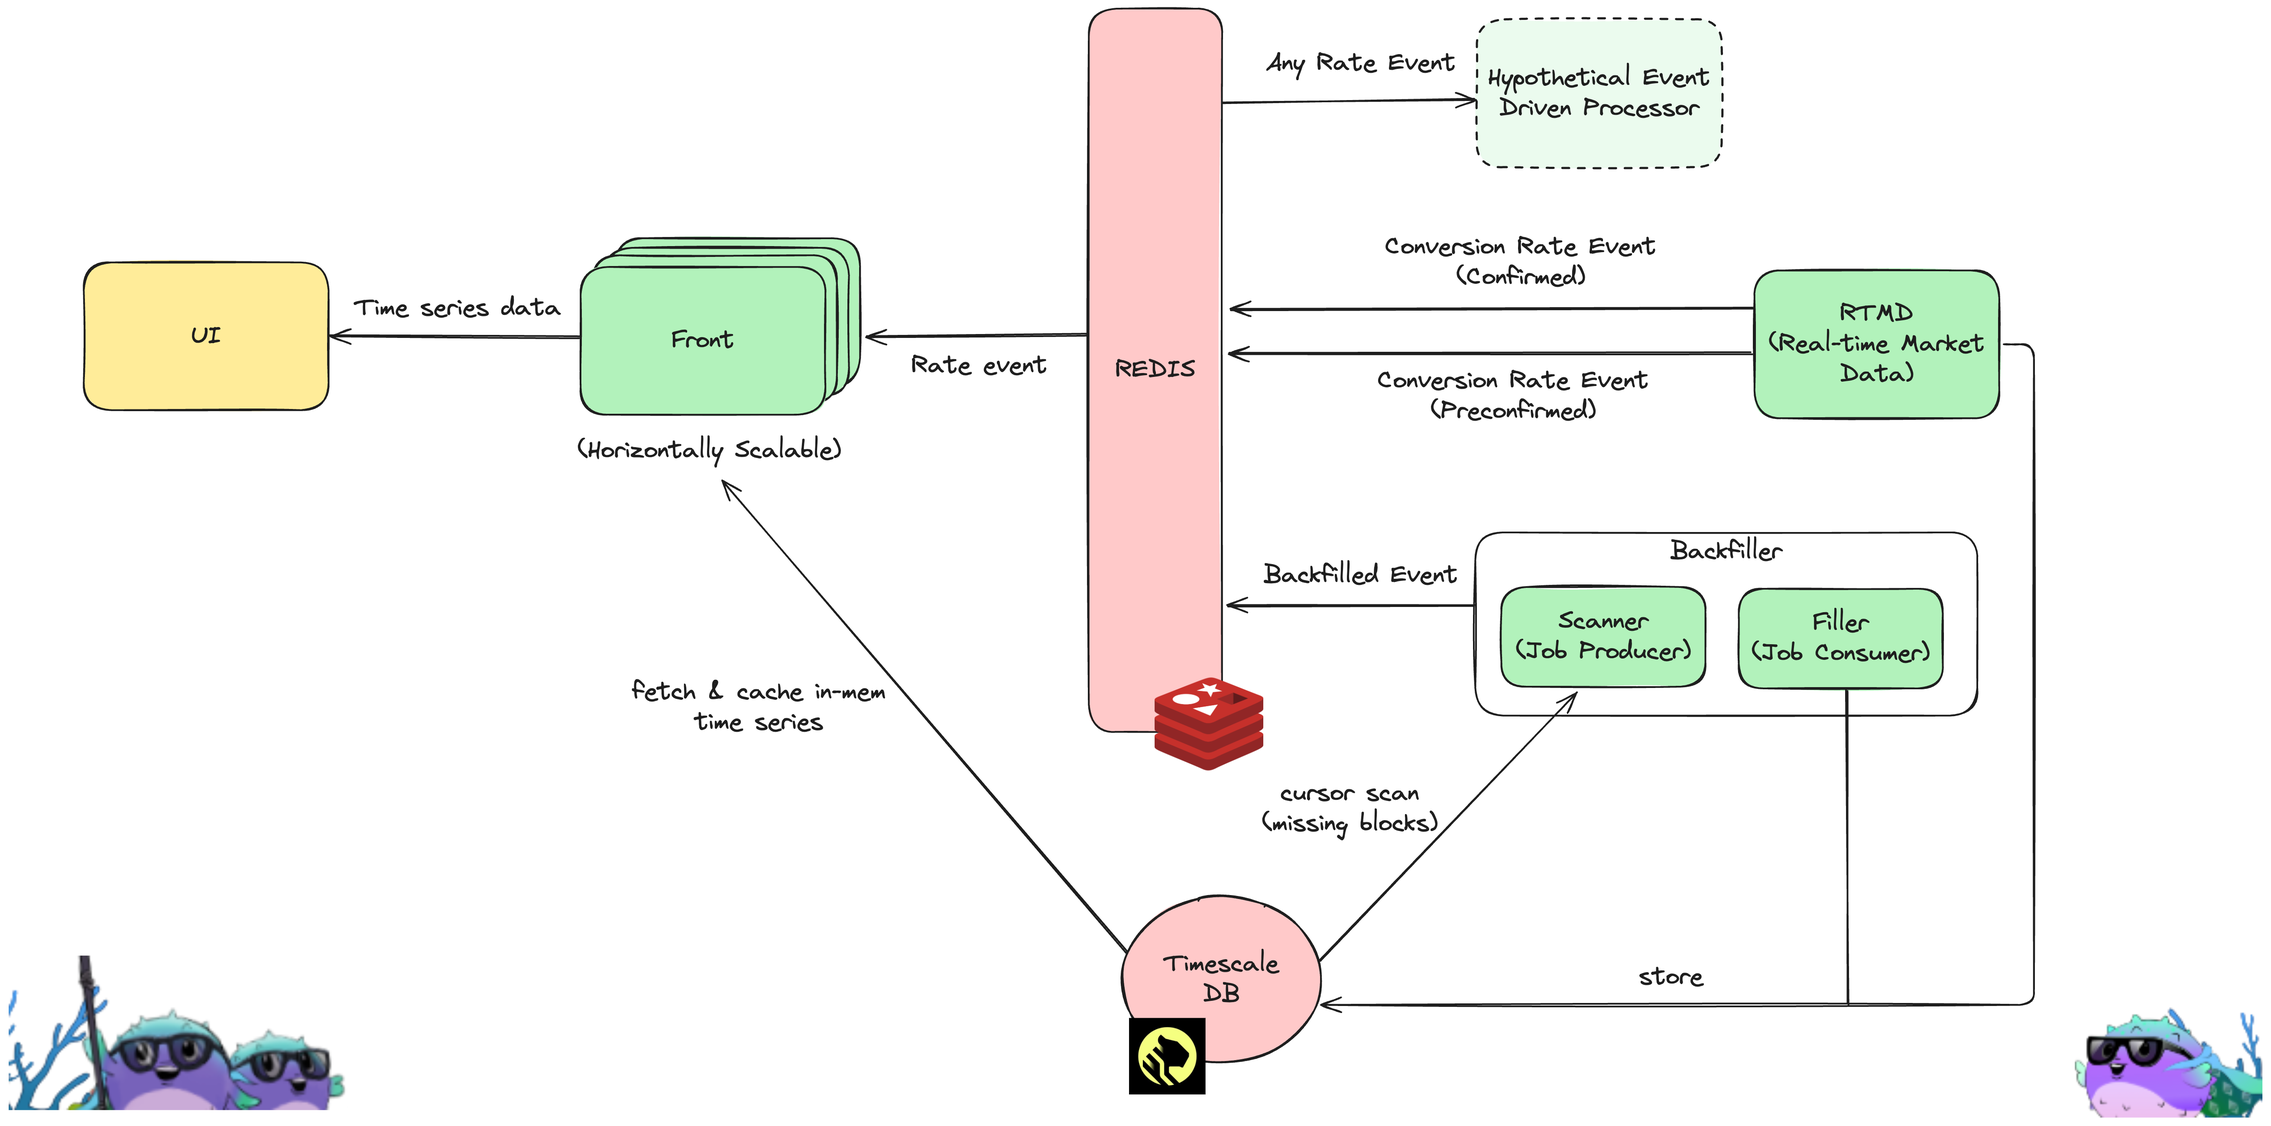
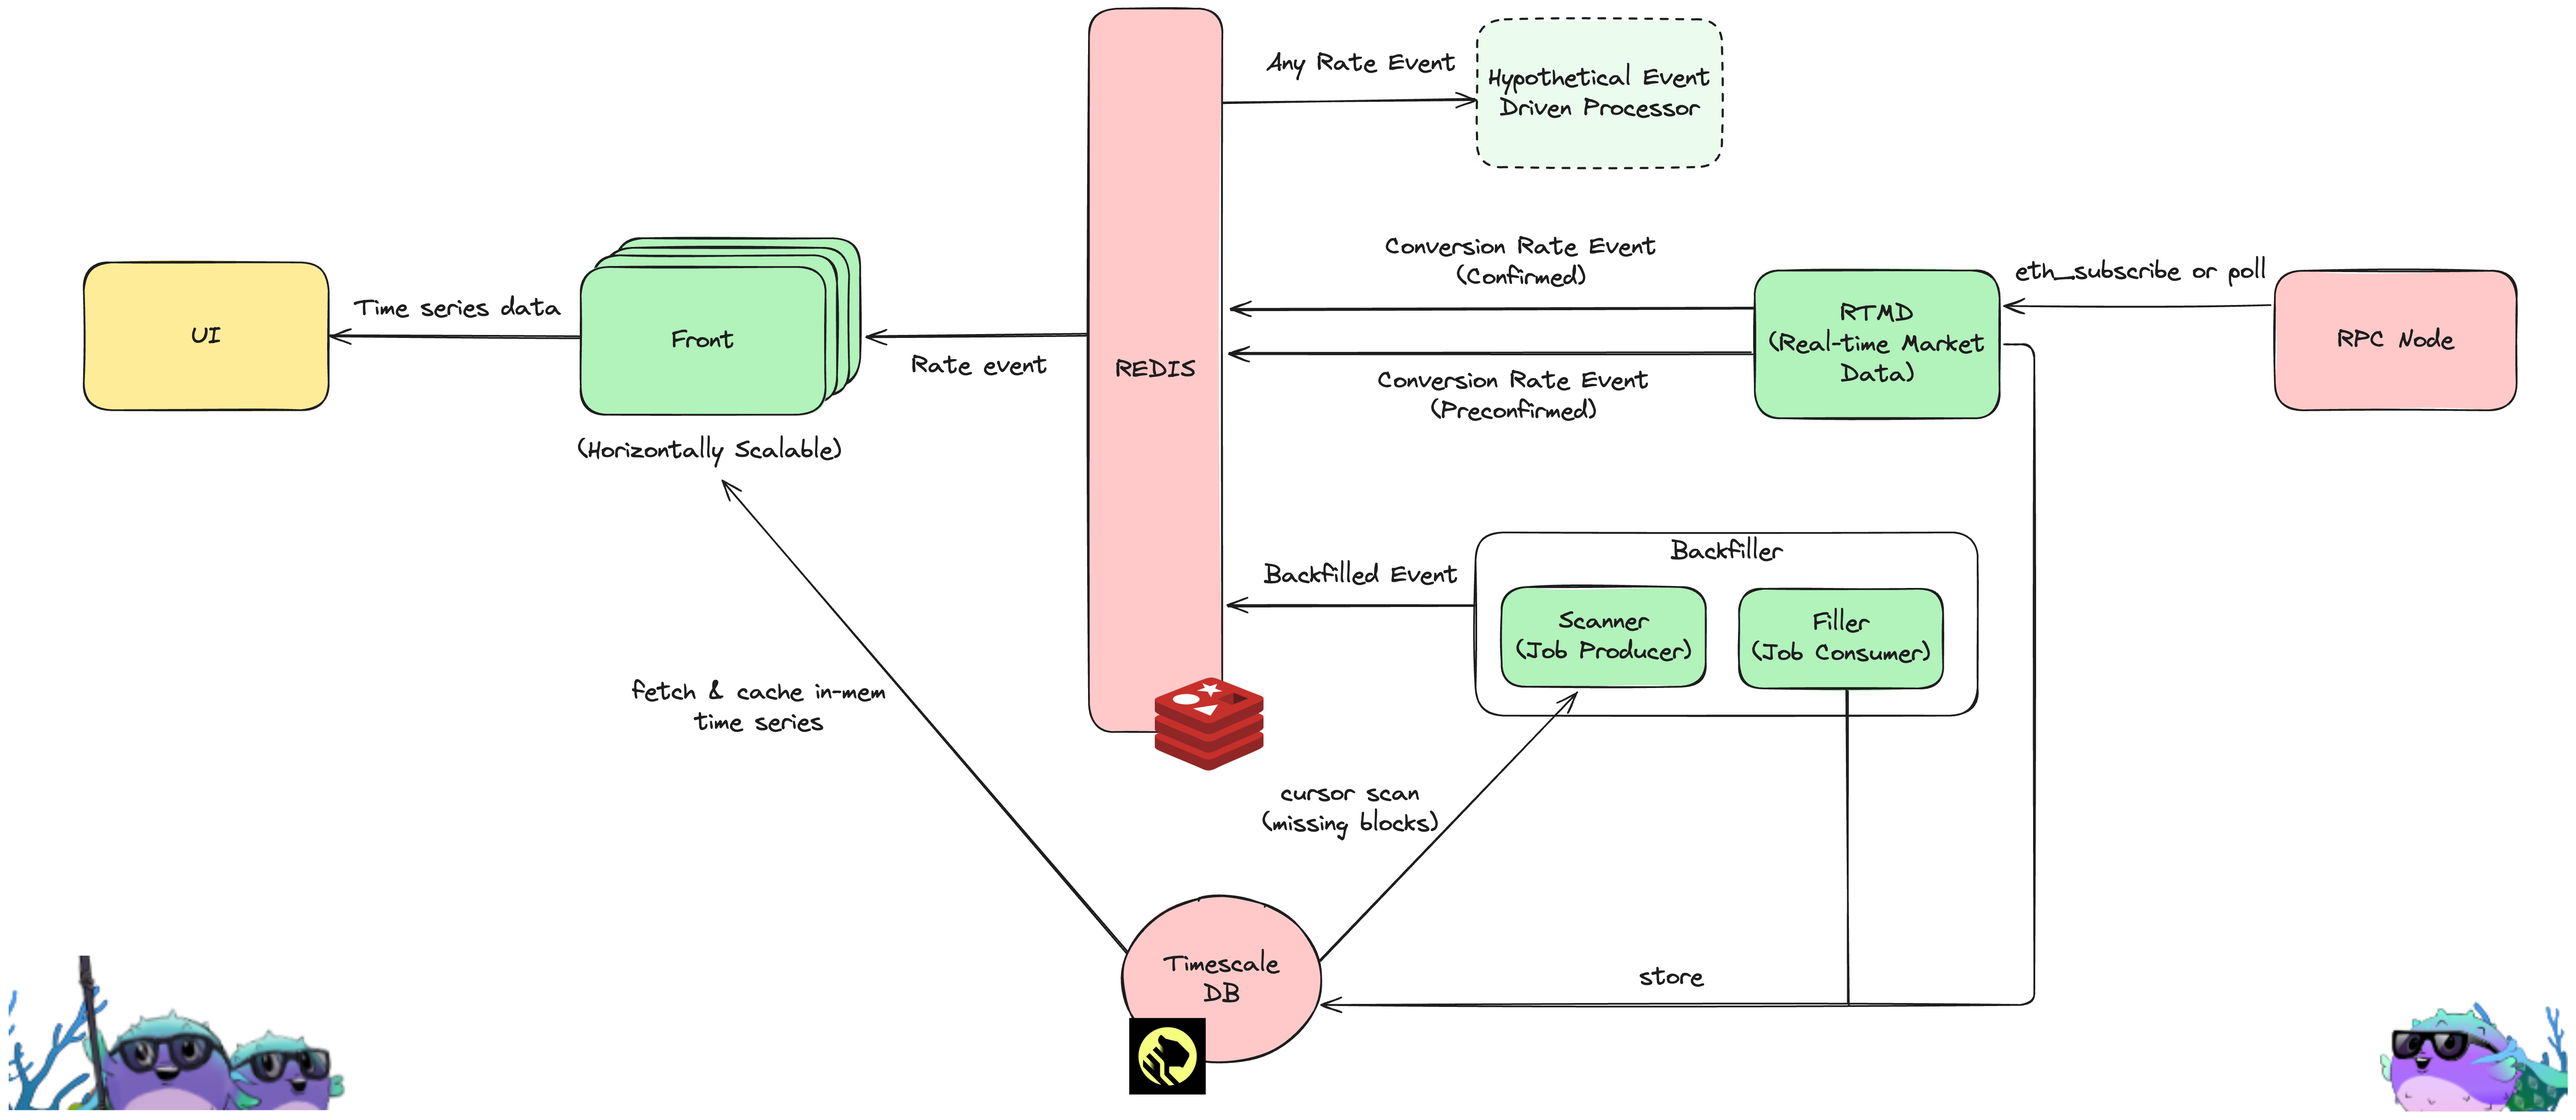
readme done

diff --git a/frontend/src/components/PufferChart.tsx b/frontend/src/components/PufferChart.tsx
@@ -7,12 +7,9 @@ import {
   YAxis,
   CartesianGrid,
   Tooltip,
-  Legend,
-  Brush,
-  AreaChart,
-  Area,
   ResponsiveContainer,
 } from "recharts";
+import Image from "next/image";
 
 export default class PufferChart extends PureComponent {
   state = {
@@ -57,7 +54,7 @@ export default class PufferChart extends PureComponent {
     }
   };
 
-  getDataRange = (key: any) => {
+  getDataRange = (key: string) => {
     const values = this.state.data.map((item) => item[key]);
     const min = Math.min(...values);
     const max = Math.max(...values);
@@ -161,7 +158,7 @@ export default class PufferChart extends PureComponent {
       <div style={{ width: "100%" }} className="bg-[#fefffe] p-6 rounded-xl">
         <div style={this.chartStyle}>
           <h3 style={this.chartTitleStyle}>PufETH:ETH Conversion Rate</h3>
-          <img
+          <Image
             src="/big-puffer.webp"
             alt=""
             className="absolute bottom-2 right-1 w-52 opacity-15 pointer-events-none"
@@ -197,7 +194,7 @@ export default class PufferChart extends PureComponent {
 
         <div style={this.chartStyle}>
           <h3 style={this.chartTitleStyle}>Total ETH in Puffer Vault</h3>
-          <img
+          <Image
             src="/big-puffer.webp"
             alt=""
             className="absolute bottom-2 right-1 w-52 opacity-15 pointer-events-none"
@@ -233,7 +230,7 @@ export default class PufferChart extends PureComponent {
 
         <div style={this.chartStyle}>
           <h3 style={this.chartTitleStyle}>Total PufETH nLRT Minted</h3>
-          <img
+          <Image
             src="/big-puffer.webp"
             alt=""
             className="absolute bottom-2 right-1 w-52 opacity-15 pointer-events-none"

diff --git a/frontend/src/components/AppLayout.tsx b/frontend/src/components/AppLayout.tsx
@@ -1,3 +1,4 @@
+import Image from "next/image";
 import React from "react";
 
 const AppLayout = () => {
@@ -16,7 +17,7 @@ const AppLayout = () => {
         <div className="max-w-7xl mx-auto px-4 sm:px-6 lg:px-8">
           <div className="flex items-center h-16">
             <div className="flex-shrink-0">
-              <img
+              <Image
                 className="h-8 w-8"
                 src="/public/puffer-logo.png"
                 alt="Company Logo"

diff --git a/frontend/src/components/Header.tsx b/frontend/src/components/Header.tsx
@@ -1,3 +1,4 @@
+import Image from "next/image";
 import React from "react";
 
 const Header = () => {
@@ -8,7 +9,7 @@ const Header = () => {
         <div className="flex items-center justify-between h-20">
           <div className="flex-shrink-0 pl-0">
             {" "}
-            <img
+            <Image
               className="h-12 w-auto"
               src="https://quest.puffer.fi/images/logos/puffer-logo-white.svg"
               alt="Logo"

diff --git a/frontend/next.config.ts b/frontend/next.config.ts
@@ -4,7 +4,6 @@ const nextConfig: NextConfig = {
   experimental: {
     optimizePackageImports: ["@chakra-ui/react"],
   },
-  output: "export",
   images: {
     unoptimized: true,
   },

diff --git a/README.md b/README.md
@@ -1,7 +1,12 @@
 # PufETH Conversion Rate Tracker
 
+### UI
+
 ![site](site.png)
-[demo](https://youtu.be/UWrf2U2yJho)
+
+### Demo
+
+https://youtu.be/UWrf2U2yJho
 
 # Tech Stack
 
@@ -29,4 +34,107 @@
 
 ![design](sys-design.png)
 
-## Frontend <> Backend
+## Overview
+
+The system uses an Event Driven Architecture (EDA). Specifically, reads on the data can often be more than the writes on the data. Thus, the Command Query Responsibility Segregation (CQRS) is used whereby services are used to write to redis and timescaledb while the web server reads from db and listens to new pubsub events.
+
+By using events, it's now possible to also "attach" new processors that listen for specific events. For example a points processor that calculates certain scores based on the tvl of the vault can now be done async as calculations are often I/O-bound and can be expensive in both latency and throughput to the core systems.
+
+## Fetching Data
+
+Fetching data for puffer can be separated into 2 different types:
+
+1. Real-time Market Data
+2. Backfilled events -> missing blocks in time series data or backfill till earliest block x
+
+### Real-time Market Data
+
+The RTMD service subscribes to new block header events from the rpc node (alternatively polling can be done if subscription is not possible). On new block header events, it then requests for the relevant data using a multicall. This service is largely network-bound as most of the time it is doing rpc calls, publishing events and storing to db.
+
+### Backfiller
+
+The backfiller fulfills 2 responsibilities. First to backfill missing blocks in the time-series data. Second is to get more historical data. The backfiller maintains 1 producer to a group of consumers. The producer uses a db cursor to run through the db to find out missing blocks, pushing missing blocks to a queue for consumers to fetch via rpc. A different event can be emitted in order to differentiate between such events.
+
+## Reading data
+
+The web server itself is built to be horizontally scalable in order to accommodate for a large number of requests. In order to reduce the latency of requests, historical time series is first fetched from the db and loaded in-memory into a ring buffer. Following real-time events are then subscribed to in real-time and added into the buffer.
+
+# To run
+
+Unforunately, due to time constraints, there is no all-in-one docker compose and no auto-migration setup yet...
+
+Do note that the following ports are used:
+
+- 5432 (Database)
+- 6379 (Redis)
+- 3001 (Web Server)
+- 3000 (UI)
+
+## Start Backend
+
+```bash
+# cd into backend folder
+cd backend
+
+# create .env file (feel free to edit if needed)
+cp .env.example .env
+```
+
+### Start TimescaleDB and Redis
+
+```bash
+docker compose up -d
+```
+
+Do a migration to create the first table
+
+```sql
+CREATE EXTENSION IF NOT EXISTS timescaledb;
+
+CREATE TABLE
+    IF NOT EXISTS puffer_conversion_rates (
+        chain VARCHAR(255) NOT NULL,
+        block_number BIGINT NOT NULL,
+        block_timestamp_ms BIGINT NOT NULL,
+        total_asset NUMERIC NOT NULL,
+        total_supply NUMERIC NOT NULL,
+        conversion_rate NUMERIC NOT NULL,
+        created_at TIMESTAMPTZ NOT NULL DEFAULT NOW (),
+        PRIMARY KEY (chain, block_number)
+    );
+
+SELECT
+    create_hypertable(
+        'puffer_conversion_rates',
+        'block_timestamp_ms',
+        chunk_time_interval => 86400000, -- 1 day in milliseconds
+        if_not_exists => TRUE,
+        migrate_data => TRUE
+    );
+```
+
+### Start Services
+
+```bash
+# start rtmd
+go run ./apps/rtmd/main.go
+
+# start backfiller
+go run ./apps/backfiller/main.go
+
+# start web server
+go run ./apps/front/main.go
+```
+
+## Start Frontend
+
+```bash
+# cd into frontend folder
+cd frontend
+
+# start UI
+yarn build
+yarn start
+```
+
+In a browser, you can enter http://localhost:3000
